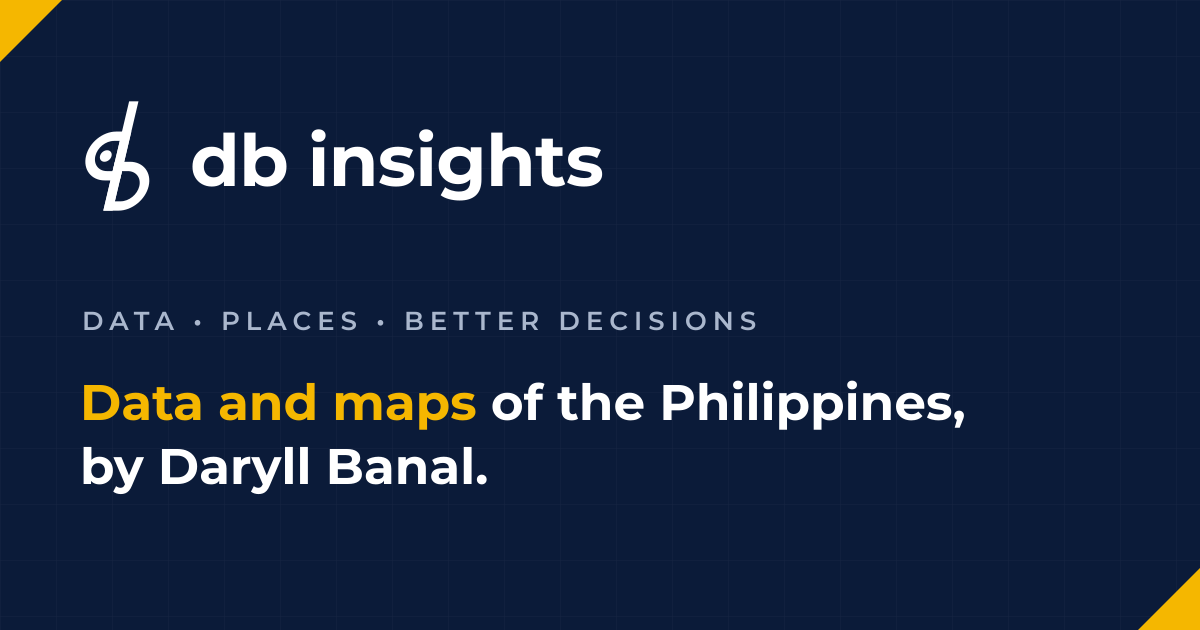
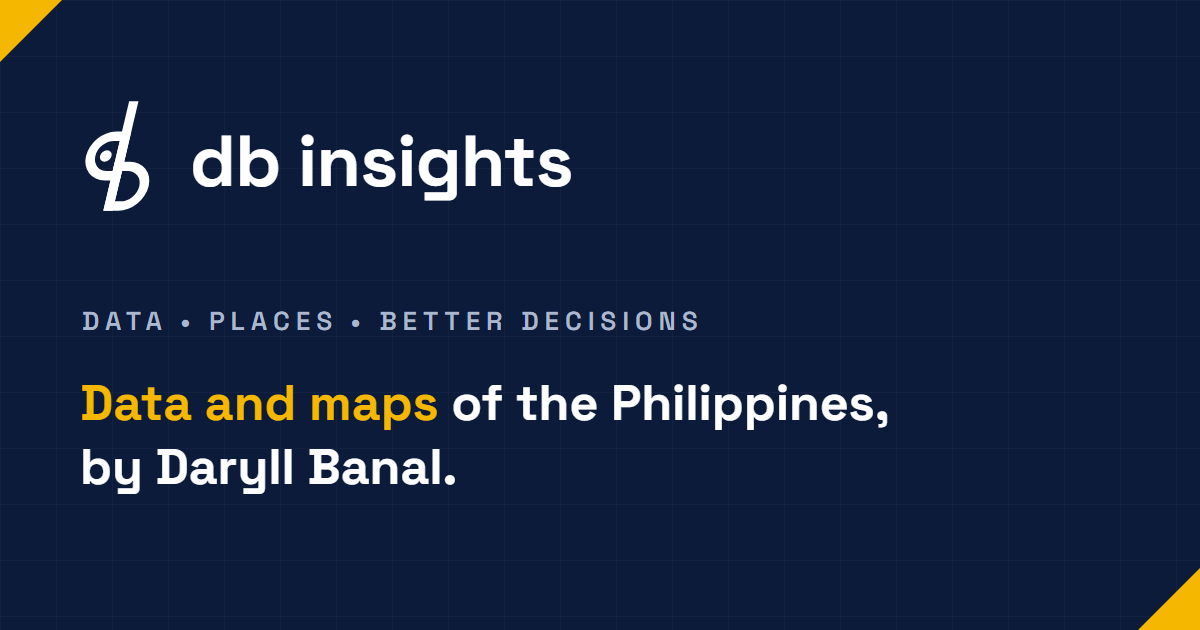
Space Grotesk headlines; highlights follow each Sub-brand's colour
Daryll's choices from the font comparison (Nov 5, 2026):
- Headlines, labels and the "db insights" wordmark switch from Plus Jakarta
  Sans to Space Grotesk (@fontsource-variable/space-grotesk). Inter and
  JetBrains Mono stay. The Jakarta package is removed.
- Highlights take the Sub-brand Accent: teal for DBSpatial, gold for
  DBAnalytics, violet for DBAutomate, coral for DBLearning. Insight Gold
  stays for the Masterbrand (home page, untagged Field Notes) and the corner
  accents. On the light theme the highlight is a highlighter stroke in that
  colour under navy text.
- ==text== in post titles and bodies becomes a highlight
  (src/lib/remark-highlight.mjs plus the PostTitle component). plainTitle()
  strips the marks for <title> tags.
- Section pages highlight the start date in their own colour
- og.png is rendered by headless Edge/Chrome so it can use Space Grotesk
  from node_modules (sharp is the fallback)

diff --git a/src/styles/global.css b/src/styles/global.css
@@ -24,11 +24,14 @@
 @import "tailwindcss";
 
 /* Self-hosted fonts (no external CDN -> faster, privacy-friendly, no layout
-   shift). The three brand fonts from BRAND-GUIDE.md "Typography":
-   - Plus Jakarta Sans (variable): headlines, labels and the "db insights" wordmark.
+   shift). The three site fonts:
+   - Space Grotesk (variable): headlines, labels and the "db insights" wordmark.
+     Chosen by Daryll on Nov 5, 2026 over Plus Jakarta Sans (see the
+     comparison in the README); BRAND-GUIDE.md still lists Jakarta until the
+     brand docs are updated to match.
    - Inter: body text.
    - JetBrains Mono (variable): code snippets ONLY (Build Logs, Lessons). */
-@import "@fontsource-variable/plus-jakarta-sans";
+@import "@fontsource-variable/space-grotesk";
 @import "@fontsource/inter/400.css";
 @import "@fontsource/inter/500.css";
 @import "@fontsource/inter/600.css";
@@ -51,11 +54,12 @@
   --color-on-accent: var(--on-accent);
   --color-live: var(--live);
 
-  /* Two colour roles (BRAND-GUIDE.md "Colour"):
+  /* Colour roles:
      - Sub-brand Accent = what something is about: tags, bars, numbers,
-       bullets. Masterbrand items use the white/navy ink (`--accent`) instead.
-     - Insight Gold = the one thing to remember: ONE highlighted word or
-       number per screen, plus the Masterbrand's corner accents.
+       bullets, AND that Sub-brand's highlights (Daryll's rule, Nov 5, 2026:
+       a DBSpatial highlight is teal, a DBAutomate one violet, and so on).
+     - Insight Gold = Masterbrand highlights (home page, Field Notes without
+       a Sub-brand) and the corner accents.
      Fixed hex values (same in both themes). On the light theme they're used
      as fills, bars and highlighter marks, never as text colour, because
      teal/amber text on white is too faint to read.
@@ -67,8 +71,8 @@
   --color-automate: #8b7cf6;  /* DBAutomate  — violet */
   --color-learning: #ff6b5b;  /* DBLearning  — coral  */
 
-  /* `font-display` = Plus Jakarta Sans (headlines + wordmark). */
-  --font-display: "Plus Jakarta Sans Variable", "Inter", ui-sans-serif, system-ui, sans-serif;
+  /* `font-display` = Space Grotesk (headlines + wordmark). */
+  --font-display: "Space Grotesk Variable", "Inter", ui-sans-serif, system-ui, sans-serif;
   --font-sans: "Inter", ui-sans-serif, system-ui, sans-serif;
   --font-mono: "JetBrains Mono Variable", ui-monospace, "SFMono-Regular", monospace;
 }
@@ -144,7 +148,7 @@ body {
   border-radius: 2px;
 }
 
-/* Headlines use Plus Jakarta Sans. Wrapped in `@layer base` on purpose:
+/* Headlines use Space Grotesk. Wrapped in `@layer base` on purpose:
    Tailwind utilities live in a later layer, so a class like `font-sans` on a
    heading still wins over this default. (Unlayered CSS would beat them.) */
 @layer base {
@@ -219,21 +223,31 @@ body {
   background-size: 14px 14px;
 }
 
-/* INSIGHT GOLD HIGHLIGHT — "the one thing to remember". Use on ONE word or
-   phrase per screen: <span class="insight">data and maps</span>.
-   Dark theme: gold text on navy (9.5:1 contrast).
-   Light theme: navy text over a gold highlighter stroke, because gold text
-   on white would be unreadable (1.9:1). `box-decoration-break: clone`
-   repeats the stroke cleanly when the phrase wraps onto two lines. */
-.insight {
-  color: var(--color-gold);
+/* HIGHLIGHTS — "the one thing to remember". Use on ONE word or phrase per
+   screen, either as <span class="insight">…</span> in a component, or as
+   ==text== in a post's Markdown or title (that becomes <mark>).
+
+   The colour comes from the `--hl` variable: Insight Gold by default (the
+   Masterbrand), set to the Sub-brand Accent on a Sub-brand's pages, e.g.
+   style="--hl: var(--color-spatial)" for a teal DBSpatial highlight.
+   Dark theme: the words in the accent colour on navy (5:1 to 9.5:1).
+   Light theme: navy words over a highlighter stroke in the accent colour,
+   because teal/amber/violet/coral text on white is too faint to read.
+   `box-decoration-break: clone` repeats the stroke when a phrase wraps. */
+.insight,
+.post-body mark,
+mark.insight {
+  color: var(--hl, var(--color-gold));
+  background: none;
+  font-weight: inherit;
 }
-:root[data-theme="light"] .insight {
+:root[data-theme="light"] .insight,
+:root[data-theme="light"] .post-body mark {
   color: inherit;
   background-image: linear-gradient(
     transparent 62%,
-    rgba(245, 183, 0, 0.6) 62%,
-    rgba(245, 183, 0, 0.6) 94%,
+    color-mix(in srgb, var(--hl, var(--color-gold)) 60%, transparent) 62%,
+    color-mix(in srgb, var(--hl, var(--color-gold)) 60%, transparent) 94%,
     transparent 94%
   );
   -webkit-box-decoration-break: clone;
@@ -278,7 +292,7 @@ body {
   background-size: 56px 56px;
 }
 
-/* The lowercase "db insights" wordmark: Plus Jakarta Sans Bold, slightly
+/* The lowercase "db insights" wordmark: Space Grotesk Bold, slightly
    tight letter-spacing, upright (the Brand Mark carries the slant).
    Usage: <span class="wordmark">db insights</span> */
 .wordmark {

diff --git a/src/lib/posts.ts b/src/lib/posts.ts
@@ -26,6 +26,40 @@ export function tagOf(post: Post): Section | null {
   return post.data.subBrand ? SECTIONS[post.data.subBrand] : null;
 }
 
+/**
+ * The CSS that colours a post's highlights and bullets in its Sub-brand
+ * Accent, e.g. "--hl: var(--color-spatial); --post-accent: var(--color-spatial)".
+ * A Masterbrand post (no tag) returns undefined: highlights stay Insight Gold
+ * and bullets use the white/navy ink.
+ */
+export function accentStyleOf(post: Post): string | undefined {
+  const tag = tagOf(post);
+  if (!tag) return undefined;
+  return `--hl: var(--color-${tag.key}); --post-accent: var(--color-${tag.key})`;
+}
+
+/**
+ * Splits a title with ==highlight== marks into plain and highlighted parts,
+ * so a component can wrap the highlighted part in <mark class="insight">.
+ * "Where ==most Filipinos== live" ->
+ *   [{text:"Where ", hl:false}, {text:"most Filipinos", hl:true}, {text:" live", hl:false}]
+ */
+export function titleParts(title: string): { text: string; hl: boolean }[] {
+  return title
+    .split(/(==[^=]+?==)/g)
+    .filter(Boolean)
+    .map((part) =>
+      part.startsWith("==") && part.endsWith("==")
+        ? { text: part.slice(2, -2), hl: true }
+        : { text: part, hl: false },
+    );
+}
+
+/** The title with the == marks removed, for <title> tags and SEO. */
+export function plainTitle(title: string): string {
+  return title.replace(/==([^=]+?)==/g, "$1");
+}
+
 /** The post's own page, e.g. "/analytics/2026-11-11-what-1000-pesos-bought". */
 export function urlOf(post: Post): string {
   return `${SECTIONS[sectionOf(post)].path}/${post.id}`;

diff --git a/README.md b/README.md
@@ -28,13 +28,17 @@ Replaces the previous site at `db-insights.vercel.app`.
 - **[Astro](https://astro.build)** (static output) — ships HTML/CSS with almost no JavaScript.
 - **[Tailwind CSS v4](https://tailwindcss.com)** — utility CSS, configured entirely in
   `src/styles/global.css` (no `tailwind.config.js` in v4).
-- **Fonts** (self-hosted via [`@fontsource`](https://fontsource.org)): Plus Jakarta Sans for
-  headlines and the lowercase "db insights" wordmark, Inter for body text, JetBrains Mono for
-  code only.
+- **Fonts** (self-hosted via [`@fontsource`](https://fontsource.org)): **Space Grotesk** for
+  headlines, labels and the lowercase "db insights" wordmark (chosen Nov 5, 2026 over Plus Jakarta
+  Sans, Bricolage Grotesque, Schibsted Grotesk, Instrument Sans and Manrope), Inter for body text,
+  JetBrains Mono for code only.
 - **Colours**: Masterbrand navy `#0B1B39` + white, and one Sub-brand Accent per section
   (teal Spatial, amber Analytics, violet Automate, coral Learning), all in `src/styles/global.css`.
-  **Insight Gold** (`#F5B700`) marks the one thing to remember: wrap ONE phrase per screen in
-  `<span class="insight">…</span>`. Add `corners` to a card for the gold corner accents.
+  **Highlights** mark the one thing to remember, ONE per screen. In a post's title or body, wrap it
+  in `==double equals==`; in a component, use `<span class="insight">…</span>`. The colour follows
+  the Sub-brand (teal DBSpatial, gold DBAnalytics, violet DBAutomate, coral DBLearning); the
+  Masterbrand (home page, Field Notes without a Sub-brand) uses Insight Gold. Add `corners` to a
+  card for the gold corner accents.
 - **Deploy target**: Vercel (static).
 - **Sitemap**: `@astrojs/sitemap` writes `sitemap-index.xml` on every build so Google can find
   every page. Nothing to maintain; new posts are added automatically.

diff --git a/src/content/posts/_TEMPLATE.md b/src/content/posts/_TEMPLATE.md
@@ -9,7 +9,10 @@
 #
 # This file itself is never published (its name starts with "_").
 
-title: "What ₱1,000 bought in 2018 vs today"
+# Put the ONE thing to remember in ==double equals==, in the title or the
+# body. It shows in the post's Sub-brand colour (teal for DBSpatial, gold for
+# DBAnalytics, violet for DBAutomate, coral for DBLearning).
+title: "What ==₱1,000== bought in 2018 vs today"
 date: 2026-11-11
 # One of: Map Breakdown · Map Reel · Data Story · Build Log · Lesson · Field Note
 format: "Data Story"
@@ -25,7 +28,7 @@ Write the post here in Markdown.
 
 ## A heading
 
-A paragraph with `inline code`, a [link](https://psa.gov.ph), and a list:
+A paragraph with a ==highlight==, `inline code`, a [link](https://psa.gov.ph), and a list:
 
 - one
 - two
